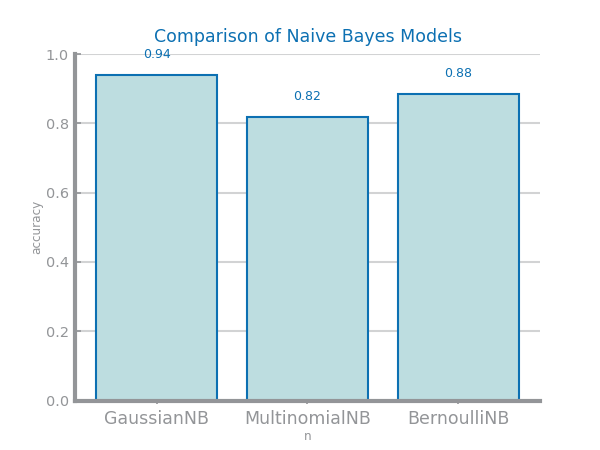
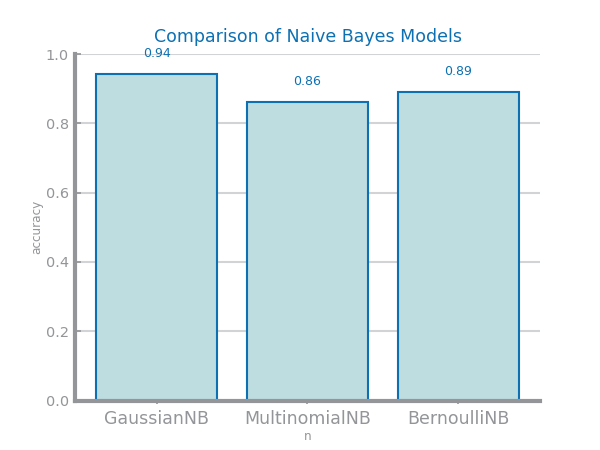
added new training sets and nb results

diff --git a/nb.py b/nb.py
@@ -21,7 +21,7 @@ estimators = {'GaussianNB': GaussianNB(),
 
 
 def make_train_test_sets(filename, target):
-	data: pd.DataFrame = pd.read_csv(f'data/{filename}.csv', parse_dates=True, infer_datetime_format=True)
+	data: pd.DataFrame = pd.read_csv(f'data/{filename}.csv')
 
 	y: np.ndarray = data.pop(target).values
 	X: np.ndarray = data.values
@@ -90,12 +90,12 @@ def nb_performance(best, X_train, X_test, y_train, y_test, labels, file_tag):
 def main():
 	register_matplotlib_converters()
 
-	for (filename, filetag, target) in [('air_quality_tabular_over', 'air_quality_over', AQ_TARGET),
-								('NYC_collisions_tabular_over', 'NYC_collisions_over', NYC_TARGET),
-								('air_quality_tabular_smote', 'air_quality_smote', AQ_TARGET),
-								('NYC_collisions_tabular_smote', 'NYC_collisions_smote', NYC_TARGET),
-								('air_quality_tabular_under', 'air_quality_under', AQ_TARGET),
-								('NYC_collisions_tabular_under', 'NYC_collisions_under', NYC_TARGET)]:
+	for (filename, filetag, target) in [('air_quality_train_over', 'air_quality_over', AQ_TARGET),
+								('NYC_collisions_train_over', 'NYC_collisions_over', NYC_TARGET),
+								('air_quality_train_smote', 'air_quality_smote', AQ_TARGET),
+								('NYC_collisions_train_smote', 'NYC_collisions_smote', NYC_TARGET),
+								('air_quality_train_under', 'air_quality_under', AQ_TARGET),
+								('NYC_collisions_train_under', 'NYC_collisions_under', NYC_TARGET)]:
 
 		X_train, X_test, y_train, y_test, labels = make_train_test_sets(filename, target)
 
